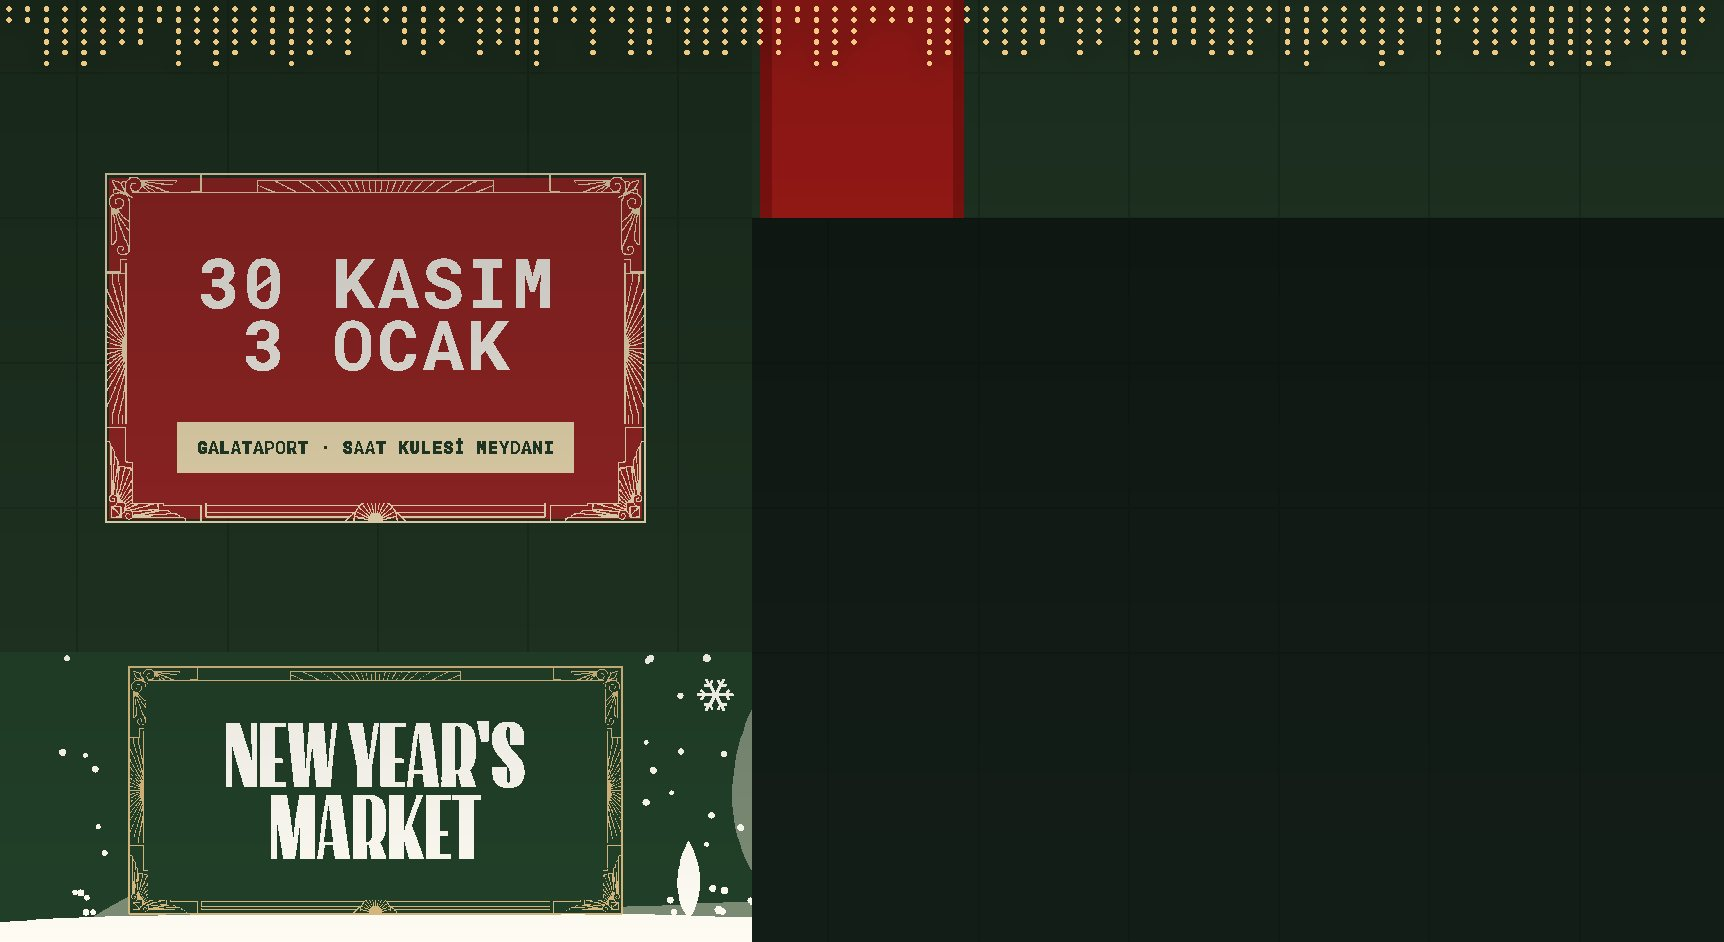
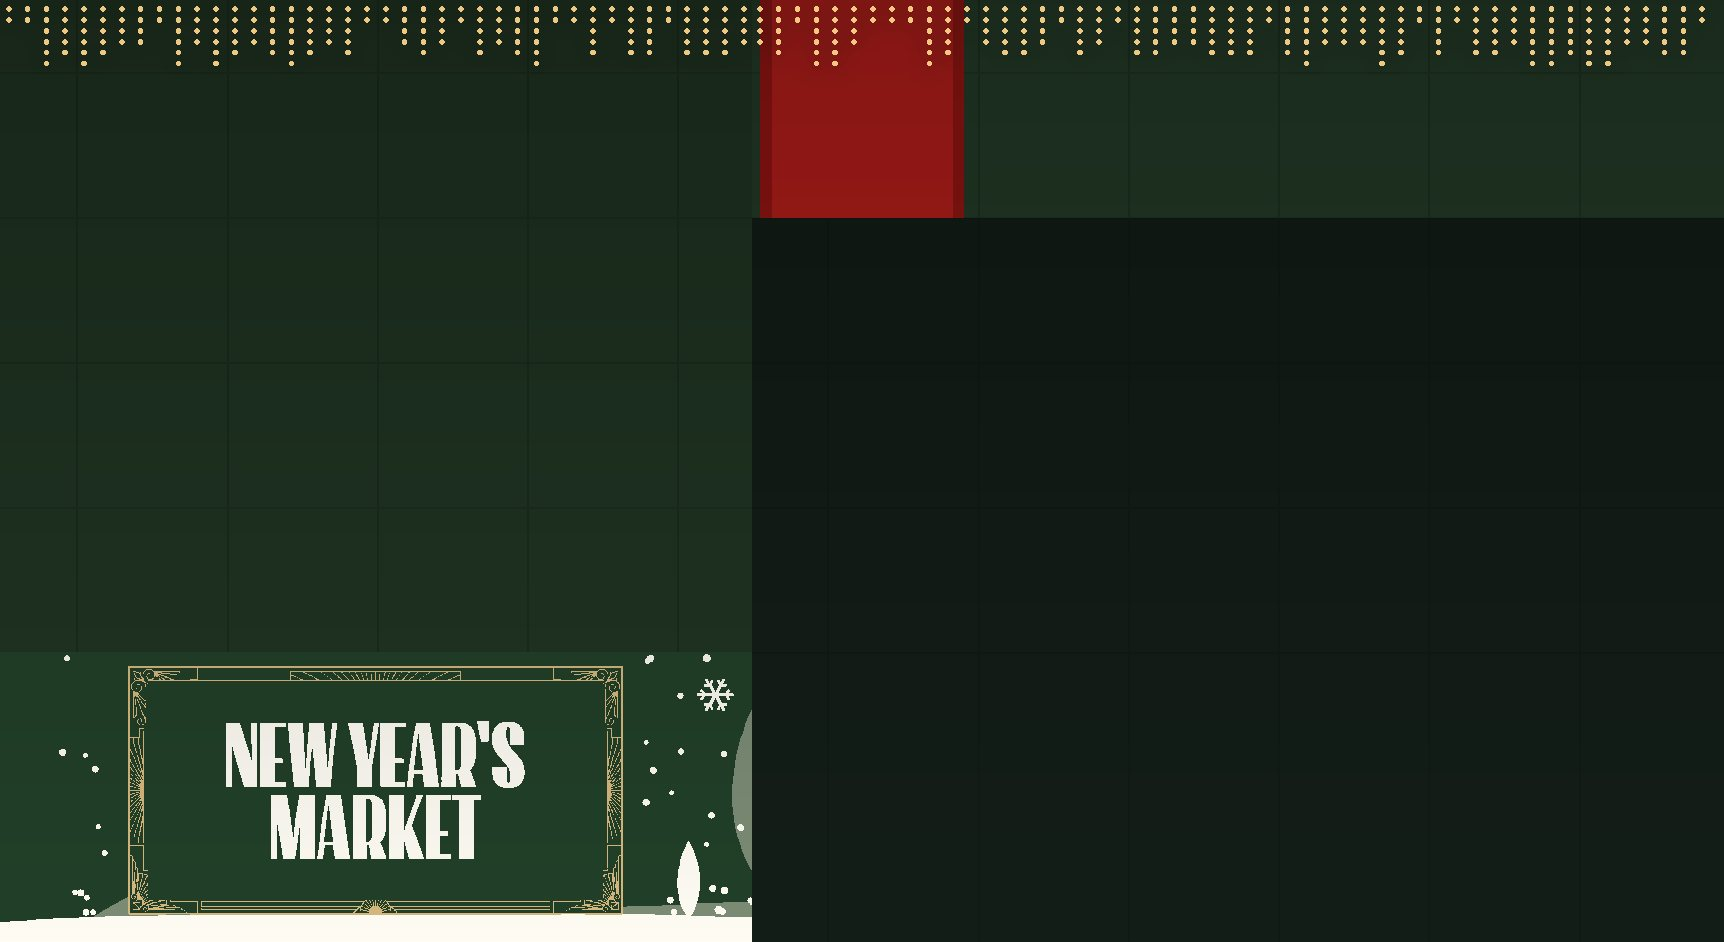
Son karar: alt 2 m baskı, düz üst mesh, wall washer
Claude-Session: https://claude.ai/code/session_01PwMsb7QHkJtVZ3r2SNCFxZ

Changed region(s): [[0.0615, 0.1847, 0.3997, 0.5541]]

diff --git a/index.html b/index.html
@@ -45,13 +45,13 @@
 <body>
 <canvas id="c"></canvas>
 <div id="load">YÜKLENİYOR…</div>
-<header><h1>NEW YEAR'S MARKET · CEPHE 3D</h1><span class="sub">GALATAPORT · SAAT KULESİ MEYDANI · MESH BASKI + KURDELE + TABELA + WALL WASHER</span></header>
+<header><h1>NEW YEAR'S MARKET · CEPHE 3D</h1><span class="sub">GALATAPORT · SAAT KULESİ MEYDANI · ALT 2 M MESH BASKI + KURDELE + TABELA + WALL WASHER</span></header>
 <div class="bar">
   <div class="grp" id="views"><b>GÖRÜNÜM</b><button data-v="all">GENEL</button><button data-v="top">ÜSTTEN</button></div>
   <div class="grp" id="layers"><b>ETİKETLER</b>
     <button class="on" data-l="box">KUTU</button><button class="on" data-l="strip">BASKI PARÇASI</button>
     <button class="on" data-l="panel">NYM PANEL</button><button class="on" data-l="logo">LOGO</button>
-    <button class="on" data-l="upper">ÜST PANEL</button><button class="on" data-l="ww">WALL WASHER</button><button class="on" data-l="ribbon">KURDELE</button><button class="on" data-l="sign">TABELA</button><button class="on" data-l="door">GİRİŞ</button>
+    <button class="on" data-l="ww">WALL WASHER</button><button class="on" data-l="ribbon">KURDELE</button><button class="on" data-l="sign">TABELA</button><button class="on" data-l="door">GİRİŞ</button>
   </div>
   <div class="grp"><b>ARAÇ</b><button id="measure">ÖLÇ</button><button id="clear">TEMİZLE</button></div>
 </div>
